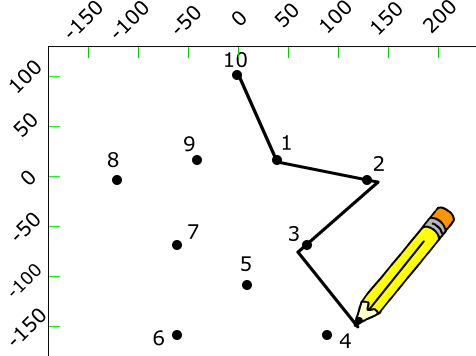
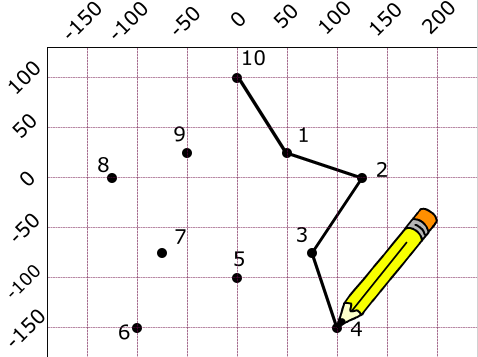
Prick till prick uppdatering
Uppdatering till uppgiften “Prick till prick”

diff --git a/block4_pricktillprick/README.html b/block4_pricktillprick/README.html
@@ -3,46 +3,53 @@
 <h1 id="prick-till-prick">Prick till prick</h1>
 <p>I denna uppgift ska du få skapa ett enkelt prick-till-prick spel. Du ska få lära dig att använda koordinater och penn-funktionen i Scratch. Det är en perfekt uppgift om du är kreativ.</p>
 <p>Ett exempel på hur det kan se ut hittar du här:</p>
-<p><a href="https://scratch.mit.edu/projects/172632019/">https://scratch.mit.edu/projects/172632019/</a></p>
-<h2 id="-image-alt-text-image_0-png-"><img src="image_0.png" alt="image alt text"></h2>
-<h2 id="delmoment-1-remixa-ett-projekt">Delmoment 1 - Remixa ett projekt</h2>
+<p><a href="https://scratch.mit.edu/projects/188770418/">https://scratch.mit.edu/projects/188770418/</a></p>
+<p><img src="image_0.png" alt="image alt text"></p>
+<h2 id="delmoment-1-remixa-ett-projekt">Delmoment 1: Remixa ett projekt</h2>
 <p>Vi börjar med att remixa ett existerande projekt. Detta gör att det blir enklare att komma igång. Dessutom får du två sprajtar och lite kod på köpet. Smart va?!</p>
-<p>Öppna din webbläsare och gå till</p>
-<p><a href="https://scratch.mit.edu/projects/172763429/">https://scratch.mit.edu/projects/172763429/</a></p>
-<p>Klicka på knappen <strong>&quot;Se inuti&quot;</strong> så att du kan se koden och Scratch studion.</p>
-<p><img src="image_1.png" alt="image alt text"></p>
-<p><em>Klicka på den markerade knappen</em></p>
-<p>Klicka sedan på knappen <strong>&quot;Remix&quot;</strong> så att du får din egen version av projektet.</p>
-<p><img src="image_2.png" alt="image alt text"></p>
-<p>När du har remixat programmet så ser du att projektets namn har förändrats. Om du tittar under namnet ska du också se ditt eget användarnamn. Du kan döpa om projekt till något som passar bättre.</p>
+<ol>
+<li><p>Öppna din webbläsare och gå till</p>
+<p> <a href="https://scratch.mit.edu/projects/172763429/">https://scratch.mit.edu/projects/172763429/</a></p>
+</li>
+<li><p>Klicka på knappen <strong>&quot;Se inuti&quot;</strong> så att du kan se koden och Scratch studion.</p>
+<p> <img src="image_1.png" alt="image alt text"></p>
+</li>
+<li><p>Klicka sedan på knappen <strong>&quot;Remix&quot;</strong> så att du får din egen version av projektet.</p>
+<p> <img src="image_2.png" alt="image alt text"></p>
+<p> När du har remixat programmet så ser du att projektets namn har förändrats.</p>
+</li>
+<li><p>Döp om projektet till något som passar bättre.</p>
+</li>
+</ol>
 <p><img src="image_3.png" alt="image alt text"></p>
-<p>I projektet har du nu en sprajt som visar koordinatsystemet scenen. Dels visas positionen i höger–vänster riktning och dels visas positionen i upp–ner riktning. Positionen i höger–vänster riktning kallas x–värdet och positionen i upp–ner riktning kallas y-värdet. X– och y–värdena anges på två axlar: x–axeln och y–axeln. X–axeln går mellan –240 och 240, medan y–axeln går mellan –180 och 180.</p>
-<p>Denna sprajt har en enkel kod som placerar axlarna på rätt ställe på spelplanen.</p>
+<p>I projektet har du nu en sprajt som visar koordinatsystemet scenen. Denna sprajt har en enkel kod som placerar axlarna på rätt ställe på spelplanen.</p>
 <p>Du har också fått en bakgrund som består av 10 prickar, samt ett streck mellan punkt 1 och 10. Din uppgift är nu att koda så att du kan spela prick-till-prick.</p>
-<h2 id="delmoment-2-en-penna">Delmoment 2 – En penna</h2>
+<h2 id="delmoment-2-en-penna">Delmoment 2: En penna</h2>
 <p>Vi ska börja med att lägga till en penna i projektet.</p>
-<p><img src="image_4.png" alt="image alt text"></p>
 <ol>
 <li><p>Klicka på <strong>&quot;Välj sprajt från biblioteket&quot;</strong></p>
+<p> <img src="image_4.png" alt="image alt text"></p>
 </li>
 <li><p>Markera <strong>Pennan</strong> och klicka på <strong>Ok</strong></p>
 </li>
 </ol>
-<p>Nu har vi en penna i spelet. I början av spelet vill vi att den ska vara placerad vid prick nummer 1. Skapa därför ett skript för <strong>Pennan</strong> som säger</p>
-<ol>
+<p>I början av spelet vill vi att den ska vara placerad vid prick nummer 1.</p>
+<ul>
+<li><p>Skapa ett skript för <strong>Pennan</strong> som säger:</p>
+<ul>
 <li><p>När START klickas på</p>
 </li>
-<li><p>Gå till x: 40 y: 20</p>
+<li><p>Gå till x: 50 y: 25</p>
 </li>
-</ol>
+</ul>
+</li>
+</ul>
 <p><img src="image_5.png" alt="image alt text"></p>
-<p><em>Skript som sätter pennans startposition</em></p>
 <blockquote>
 <p>Testa ditt program: klicka på den <strong>Gröna flaggan</strong>. Hamnar spetsen på vid prick nummer 1?</p>
 </blockquote>
-<p>Det kommer den inte göra. Anledningen är att centrum för pennan är satt till ett helt annat ställe än spetsen. Detta kan vi ändra på!</p>
+<p>Det kommer den inte göra! Anledningen är att centrum för pennan är satt till ett helt annat ställe än spetsen. Detta kan vi ändra på.</p>
 <p><img src="image_6.png" alt="image alt text"></p>
-<p><em>Klädslar och ritytan - hjälp för att sätta centrum för pennan</em></p>
 <ol>
 <li><p>Klicka på fliken <strong>Klädslar</strong></p>
 </li>
@@ -58,8 +65,8 @@
 <blockquote>
 <p>Testa programmet igen! Flyttar sig pennan så att den nu pekar på prick nummer 1?</p>
 </blockquote>
-<h2 id="delmoment-3-rita">Delmoment 3 – Rita</h2>
-<p>Vi ska börja med att fortsätta på start-skriptet som du skapade ovan och placerade pennan. Lägg därför till följande kod precis under <strong>&quot;Gå till...&quot;</strong>-blocket.</p>
+<h2 id="delmoment-3-rita">Delmoment 3: Rita</h2>
+<p>Vi ska börja med att fortsätta på <em>start-skriptet</em> som du skapade ovan och placerade pennan. Lägg därför till följande kod precis under <strong>&quot;Gå till...&quot;</strong>-blocket.</p>
 <ol>
 <li><p>Radera</p>
 </li>
@@ -68,19 +75,21 @@
 <li><p>Sätt pennans storlek till <strong>3</strong></p>
 </li>
 </ol>
-<p>Alla dessa kodblock hittar du under kategorin <strong>Penna</strong>. Koden ser till att den uppritade figuren tas bort när spelet börjar, och sätter stilen på pennan.</p>
+<p>Alla dessa kodblock hittar du under kategorin <strong>Penna</strong>.</p>
 <p><img src="image_8.png" alt="image alt text"></p>
-<p><em>Så här ska startskriptet se ut</em></p>
-<p>För att gå vidare behöver vi en variabel som håller svaret till en fråga vi ska ställa till den som ska spela.</p>
+<ol>
+<li><p>Skapa en variabel som ska hålla svaret till en fråga vi ska ställa till den som ska spela.</p>
 <ol>
 <li><p>Gå till kategorin <strong>Data</strong> och klicka på <strong>&quot;Skapa en variabel&quot;</strong></p>
 </li>
 <li><p>Döp variabeln till <strong>&quot;temp&quot;</strong> (för temporär)</p>
+<p><img src="image_9.png" alt="image alt text"></p>
 </li>
 </ol>
-<p><img src="image_9.png" alt="image alt text"></p>
-<p><em>Hur du skapar en ny variabel</em></p>
-<p>Skapa ett nytt skript som säger:</p>
+</li>
+</ol>
+<ol>
+<li><p>Skapa ett nytt skript som säger:</p>
 <ol>
 <li><p>När <strong>&quot;r&quot;</strong>-tangenten trycks ned</p>
 </li>
@@ -95,6 +104,8 @@
 <li><p>Gå till <strong>x: &quot;temp&quot; y: “svar”</strong></p>
 </li>
 <li><p>Penna upp</p>
+</li>
+</ol>
 </li>
 </ol>
 <p><img src="image_10.png" alt="image alt text"></p>
